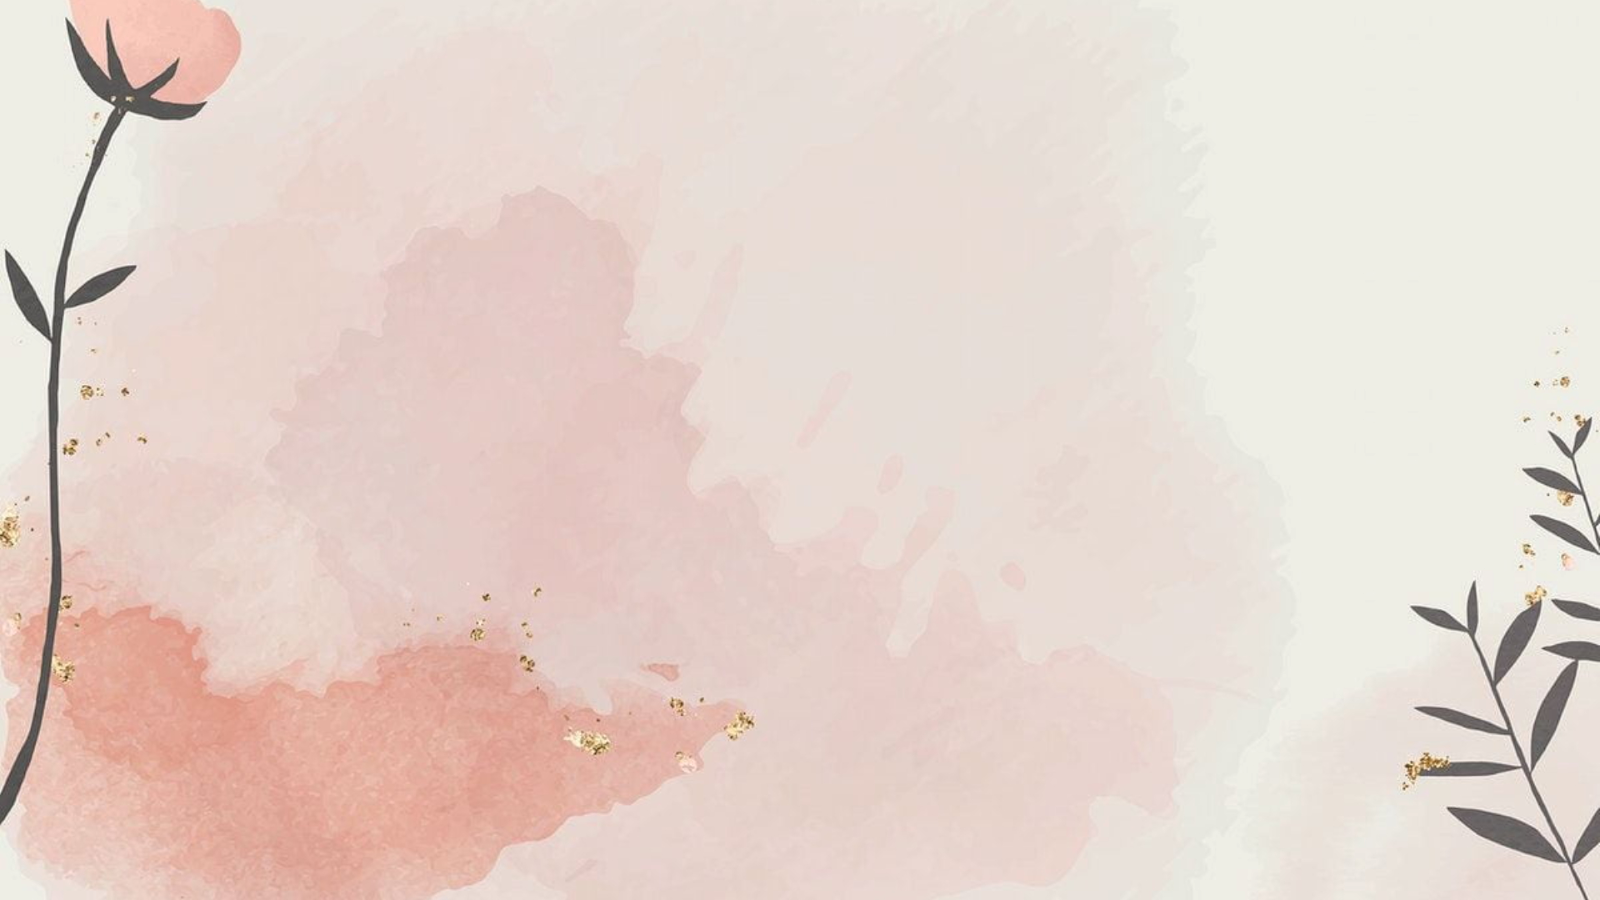
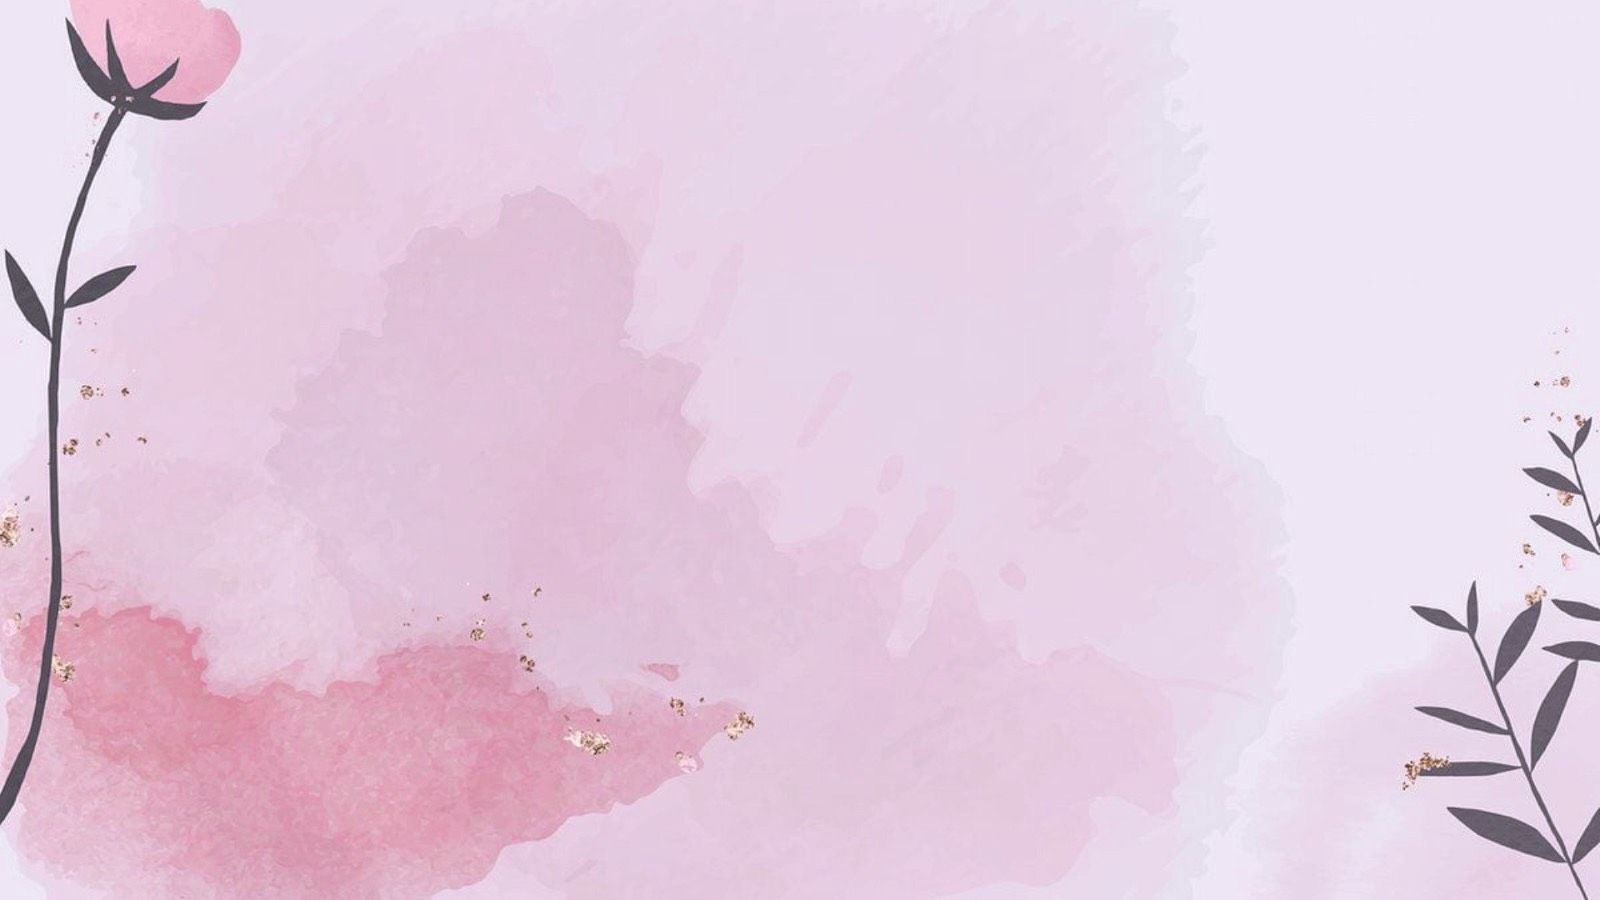
add: main & application's root

diff --git a/interface/Application.cpp b/interface/Application.cpp
@@ -1,0 +1,78 @@
+#include "Application.hpp"
+
+Application::Application()
+    : mWindow(sf::VideoMode(1600, 900), "Data Structure Visualization", sf::Style::Titlebar | sf::Style::Close)
+{
+    mFont.loadFromFile("resources/fonts/arial.ttf");
+    mWindow.setVerticalSyncEnabled(true);
+    // to the refresh rate of the monitor, usually around 60Hz. This can avoid graphical artifacts such as screen tearing
+    mWindow.setPosition(sf::Vector2i(175, 50));
+
+    mousePress = false;
+    keyPress = '$';
+}
+
+void Application::run()
+{
+    sf::Clock clock;
+    // Screen mScreen(mWindow, mFont);
+
+    while (mWindow.isOpen())
+    {
+        float dt = clock.restart().asSeconds();
+        processEvents();
+        // mScreen.update(mousePress, mousePosition, keyPress, dt);
+        mWindow.clear();
+        // render(mScreen);
+    }
+}
+
+void Application::processEvents()
+{
+    sf::Event event;
+    char c;
+    while (mWindow.pollEvent(event))
+    {
+        switch (event.type)
+        {
+        case sf::Event::Closed:
+            mWindow.close();
+            break;
+        case sf::Event::MouseButtonPressed:
+            if (event.mouseButton.button == sf::Mouse::Left)
+                mousePress = true;
+            break;
+        case sf::Event::MouseButtonReleased:
+            if (event.mouseButton.button == sf::Mouse::Left)
+                mousePress = false;
+            break;
+        case sf::Event::MouseMoved:
+            mousePosition = sf::Mouse::getPosition(mWindow);
+            break;
+        case sf::Event::TextEntered:
+            if (event.text.unicode == 8) // Backspace
+                keyPress = '@';
+            else if ((event.text.unicode >= 48 && event.text.unicode <= 57) || (event.text.unicode >= 97 && event.text.unicode <= 122) || (event.text.unicode >= 65 && event.text.unicode <= 90) || event.text.unicode == 32) // 0 -> 9 or space
+                keyPress = static_cast<char>(event.text.unicode);
+            else
+                keyPress = '$';
+            break;
+        case sf::Event::KeyReleased:
+            keyPress = '$';
+            break;
+        default:
+            break;
+        }
+    }
+}
+
+void Application::render()//Screen &mScreen)
+{
+    sf::Texture texture;
+    texture.loadFromFile("resources/images/background.png");
+    sf::Sprite sprite;
+    sprite.setTexture(texture, true);
+    mWindow.draw(sprite);
+    // mScreen.draw();
+    mWindow.display();
+}

diff --git a/interface/Application.hpp b/interface/Application.hpp
@@ -1,0 +1,22 @@
+#ifndef APPLICATION_HPP
+#define APPLICATION_HPP
+
+#include <SFML/Graphics.hpp>
+// #include "Screen.hpp"
+
+struct Application
+{
+                Application();
+    void        run();
+    void        processEvents();
+    void        render();//Screen &mScreen);
+
+    sf::RenderWindow mWindow;
+    sf::Font mFont;
+
+    bool mousePress;
+    sf::Vector2i mousePosition;
+    char keyPress;
+};
+
+#endif // APPLICATION_HPP

diff --git a/main.cpp b/main.cpp
@@ -1,0 +1,8 @@
+#include "interface/Application.hpp"
+
+int main()
+{
+    Application app;
+    app.run();
+    return 0;
+}
